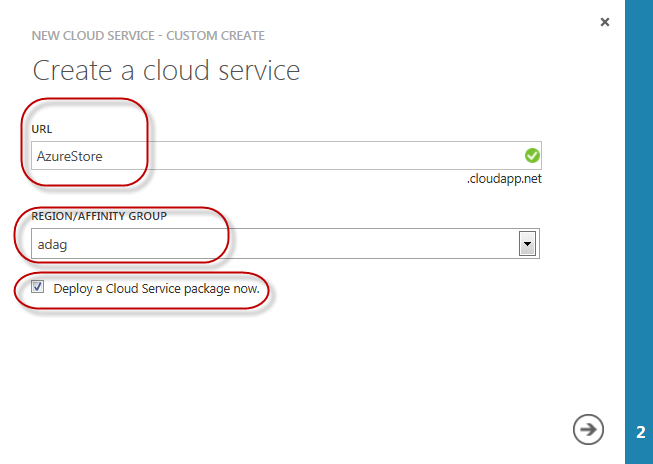
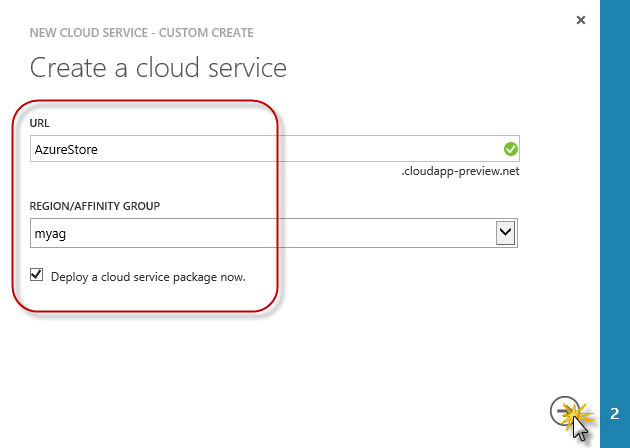
- Added section to create a virtual network.

Changed region(s): [[0.0, 0.125, 0.8444, 0.7188], [0.8746, 0.0, 0.9952, 1.0], [0.0302, 0.0625, 0.4222, 0.0938]]

diff --git a/HOL.md b/HOL.md
@@ -44,6 +44,49 @@ This hands-on lab includes the following exercises:
  
 Estimated time to complete this lab: **45 minutes**.
 
+<a name="GettingStarted"></a>
+### Getting Started - Configuring Virtual Networking ###
+
+For this lab, you will define a virtual network where you can assign the virtual machines to specific subnets. 
+
+<a name="Ex1Task1" />
+#### Task 1 - Creating an Affinity Group ####
+
+The first task is to create an affinity group for the Virtual Network.
+
+1. Open a browser a go to https://manage.windowsazure.com. When prompted, login with your **Windows Azure** credentials. In the Windows Azure portal, click **Networks**, **Affinity Groups** and at the bottom click **Create**.
+
+1. Name the affinity group _myag_, include a description and select a **Region**. Click the button to create the affinity group.
+
+	![Creating an Affinity Group](images/creating-an-affinity-group.png?raw=true)
+
+	_Creating an Affinity Group_
+
+<a name="Ex1Task2" />
+#### Task 2 - Creating a new Virtual Network ####
+
+The next step is to create a new virtual network to your subscription.
+
+1. In the Windows Azure Portal, click **Networks**, **Virtual Networks** and at the bottom click **Create**.
+
+1. Set a Name for the virtual network, for example _MyVNET_ along with the description and click the arrow button to continue.
+
+	![creating a new virtual network](images/creating-a-new-virtual-network.png?raw=true)
+
+	_Creating a new virtual network_
+
+1. Set the **Address Space** value to _192.168.0.0/16_ and add a subnet named _AppSubnet_ with a prefix of _192.168.1.0/24_.
+
+	![Adding an address space and subnets](images/adding-an-address-space-and-subnets.png?raw=true)
+
+	_Adding an address space and subnets_
+
+1. Leave default settings for DNS and click the finish button.
+
+	![Creating the Virtual Network](images/creating-the-virtual-network.png?raw=true "Creating the Virtual Network")
+
+	_Creating the Virtual Network_
+
 <a name="Exercise1" />
 ### Exercise 1: Creating a SQL Server VM ###
 
@@ -70,19 +113,23 @@ In this task, you will create a new Virtual Machine using the Windows Azure Port
 
 	![VM Configuration](images/vm-configuration.png?raw=true "VM Configuration")
  
-	_VM Configuration_
+	_Virtual Machine Configuration_
 
-1. In the **VM Mode** page, select **Standalone Virtual Machine** option, then a unique name for the **DNS Name**. Finally, select the **ADVNET** Virtual Network from the **Region/Affinity Group/Virtual Network** list and click **Next**.
+1. In the **VM Mode** page, select **Standalone Virtual Machine** option, then a unique name for the **DNS Name**. Finally, select the Virtual Network you created before, from the **Region/Affinity Group/Virtual Network** list and click **Next**.
 
 	![Selecting VM mode](images/selecting-vm-mode.png?raw=true "Selecting VM mode")
 
-1. In the **VM Options** page, select the **APPSUBNET** virtual network subnet and click the finish button to create the new VM
+	_Setting the Virtual Machine Mode_
+
+1. In the **VM Options** page, select the **APPSUBNET** virtual network subnet and click the finish button to create the new VM.
 
 	![VM Options](images/vm-options.png?raw=true "VM Options")
 
-	_VM Options_
+	_Setting the Virtual Machine Options_
 
-1. In the **Virtual Machines** section, you will see the Virtual Machine you created displaying a _provisioning_ status. Wait until it changes to _On_ in order to continue.
+1. In the **Virtual Machines** section, you will see the Virtual Machine you created displaying a _provisioning_ status. Wait until it changes to _Running_ in order to continue.
+
+	> **Note:** It will take from 8 to 10 minutes for the Virtual Machine to complete the provisioning process.
 
 <a name="Ex1Task2" />
 #### Task 2 - Configuring SQL Server 2012 Instance ####
@@ -263,7 +310,7 @@ In this task, you will change the connection string to point to the SQL Server i
 
 1. Navigate to the **Windows Azure Portal** using a Web browser and sign in using the **Microsoft Account** associated with your Windows Azure account.
 
-1. In te left side pane, click on **Virtual Machines** and locate the SQL Server Virtual Machine you created in the previous exercise. Select the VM and then click **Connect**. 
+1. In the left side pane, click on **Virtual Machines** and locate the SQL Server Virtual Machine you created in the previous exercise. Select the VM and then click **Connect**. 
 
 1. When prompted to save or open the .rdp file, click **Open** and then log on using the Admin credentials you defined when you created the VM.
 
@@ -281,13 +328,13 @@ In this task, you will change the connection string to point to the SQL Server i
 
 1. Compile the solution in order to download the required packages.
 
-1. Open the**Web.config** file and locate the **connectionStrings** node at the end of the file. Replace the **Data Source** attribute values with the IP address of the  SQL Server Virtual Machine you copied in step 2.
+1. Open the **Web.config** file and locate the **connectionStrings** node at the end of the file. Replace the **Data Source** attribute values with the IP address of the  SQL Server Virtual Machine you copied in step 2.
 
 	<!--mark: 1-5-->
 	````XML
 	<connectionStrings>
-		<add name="DefaultConnection" connectionString="Data Source=192.168.2.4;initial catalog=AdventureWorksLT2008R2;Uid=AzureStore;Password=Azure$123;MultipleActiveResultSets=True" providerName="System.Data.SqlClient" />
-    <add name="AdventureWorksEntities" connectionString="metadata=res://*/Models.AdventureWorks.csdl|res://*/Models.AdventureWorks.ssdl|res://*/Models.AdventureWorks.msl;provider=System.Data.SqlClient;provider connection string=&quot;data source=192.168.2.4;initial catalog=AdventureWorksLT2008R2;Uid=AzureStore;Password=Azure$123;multipleactiveresultsets=True;App=EntityFramework&quot;" providerName="System.Data.EntityClient" />
+		<add name="DefaultConnection" connectionString="Data Source=[ENTER-IP-ADDRESS];initial catalog=AdventureWorksLT2008R2;Uid=AzureStore;Password=Azure$123;MultipleActiveResultSets=True" providerName="System.Data.SqlClient" />
+		<add name="AdventureWorksEntities" connectionString="metadata=res://*/Models.AdventureWorks.csdl|res://*/Models.AdventureWorks.ssdl|res://*/Models.AdventureWorks.msl;provider=System.Data.SqlClient;provider connection string=&quot;data source=192.168.2.4;initial catalog=AdventureWorksLT2008R2;Uid=AzureStore;Password=Azure$123;multipleactiveresultsets=True;App=EntityFramework&quot;" providerName="System.Data.EntityClient" />
 	</connectionStrings>
 	````
 
@@ -304,7 +351,7 @@ In this task, you will change the connection string to point to the SQL Server i
     </ConfigurationSettings>
   </Role>
   <NetworkConfiguration>
-    <VirtualNetworkSite name="ADVNET" />
+    <VirtualNetworkSite name="MyVNET" />
     <AddressAssignments>
       <InstanceAddress roleName="AzureStore">
         <Subnets>
@@ -339,7 +386,7 @@ In this task, you will publish the Web Application to Windows Azure using Visual
 
 1. Click the **New** link located at the bottom of the page, select **Cloud Service** and then **Custom Create**.
 
-1. In the **Create Your Cloud Service** window, enter **AzureStore** in the **Url** field, select **adag** from the **Region/Affinity Group** selection list and check the **Deploy a Cloud Service package now** option.
+1. In the **Create Your Cloud Service** window, enter **AzureStore** in the **Url** field, select **myag** from the **Region/Affinity Group** selection list and check the **Deploy a Cloud Service package now** option.
 
 	![New Cloud Service](images/new-cloud-service5.png?raw=true "New Cloud Service")
 
